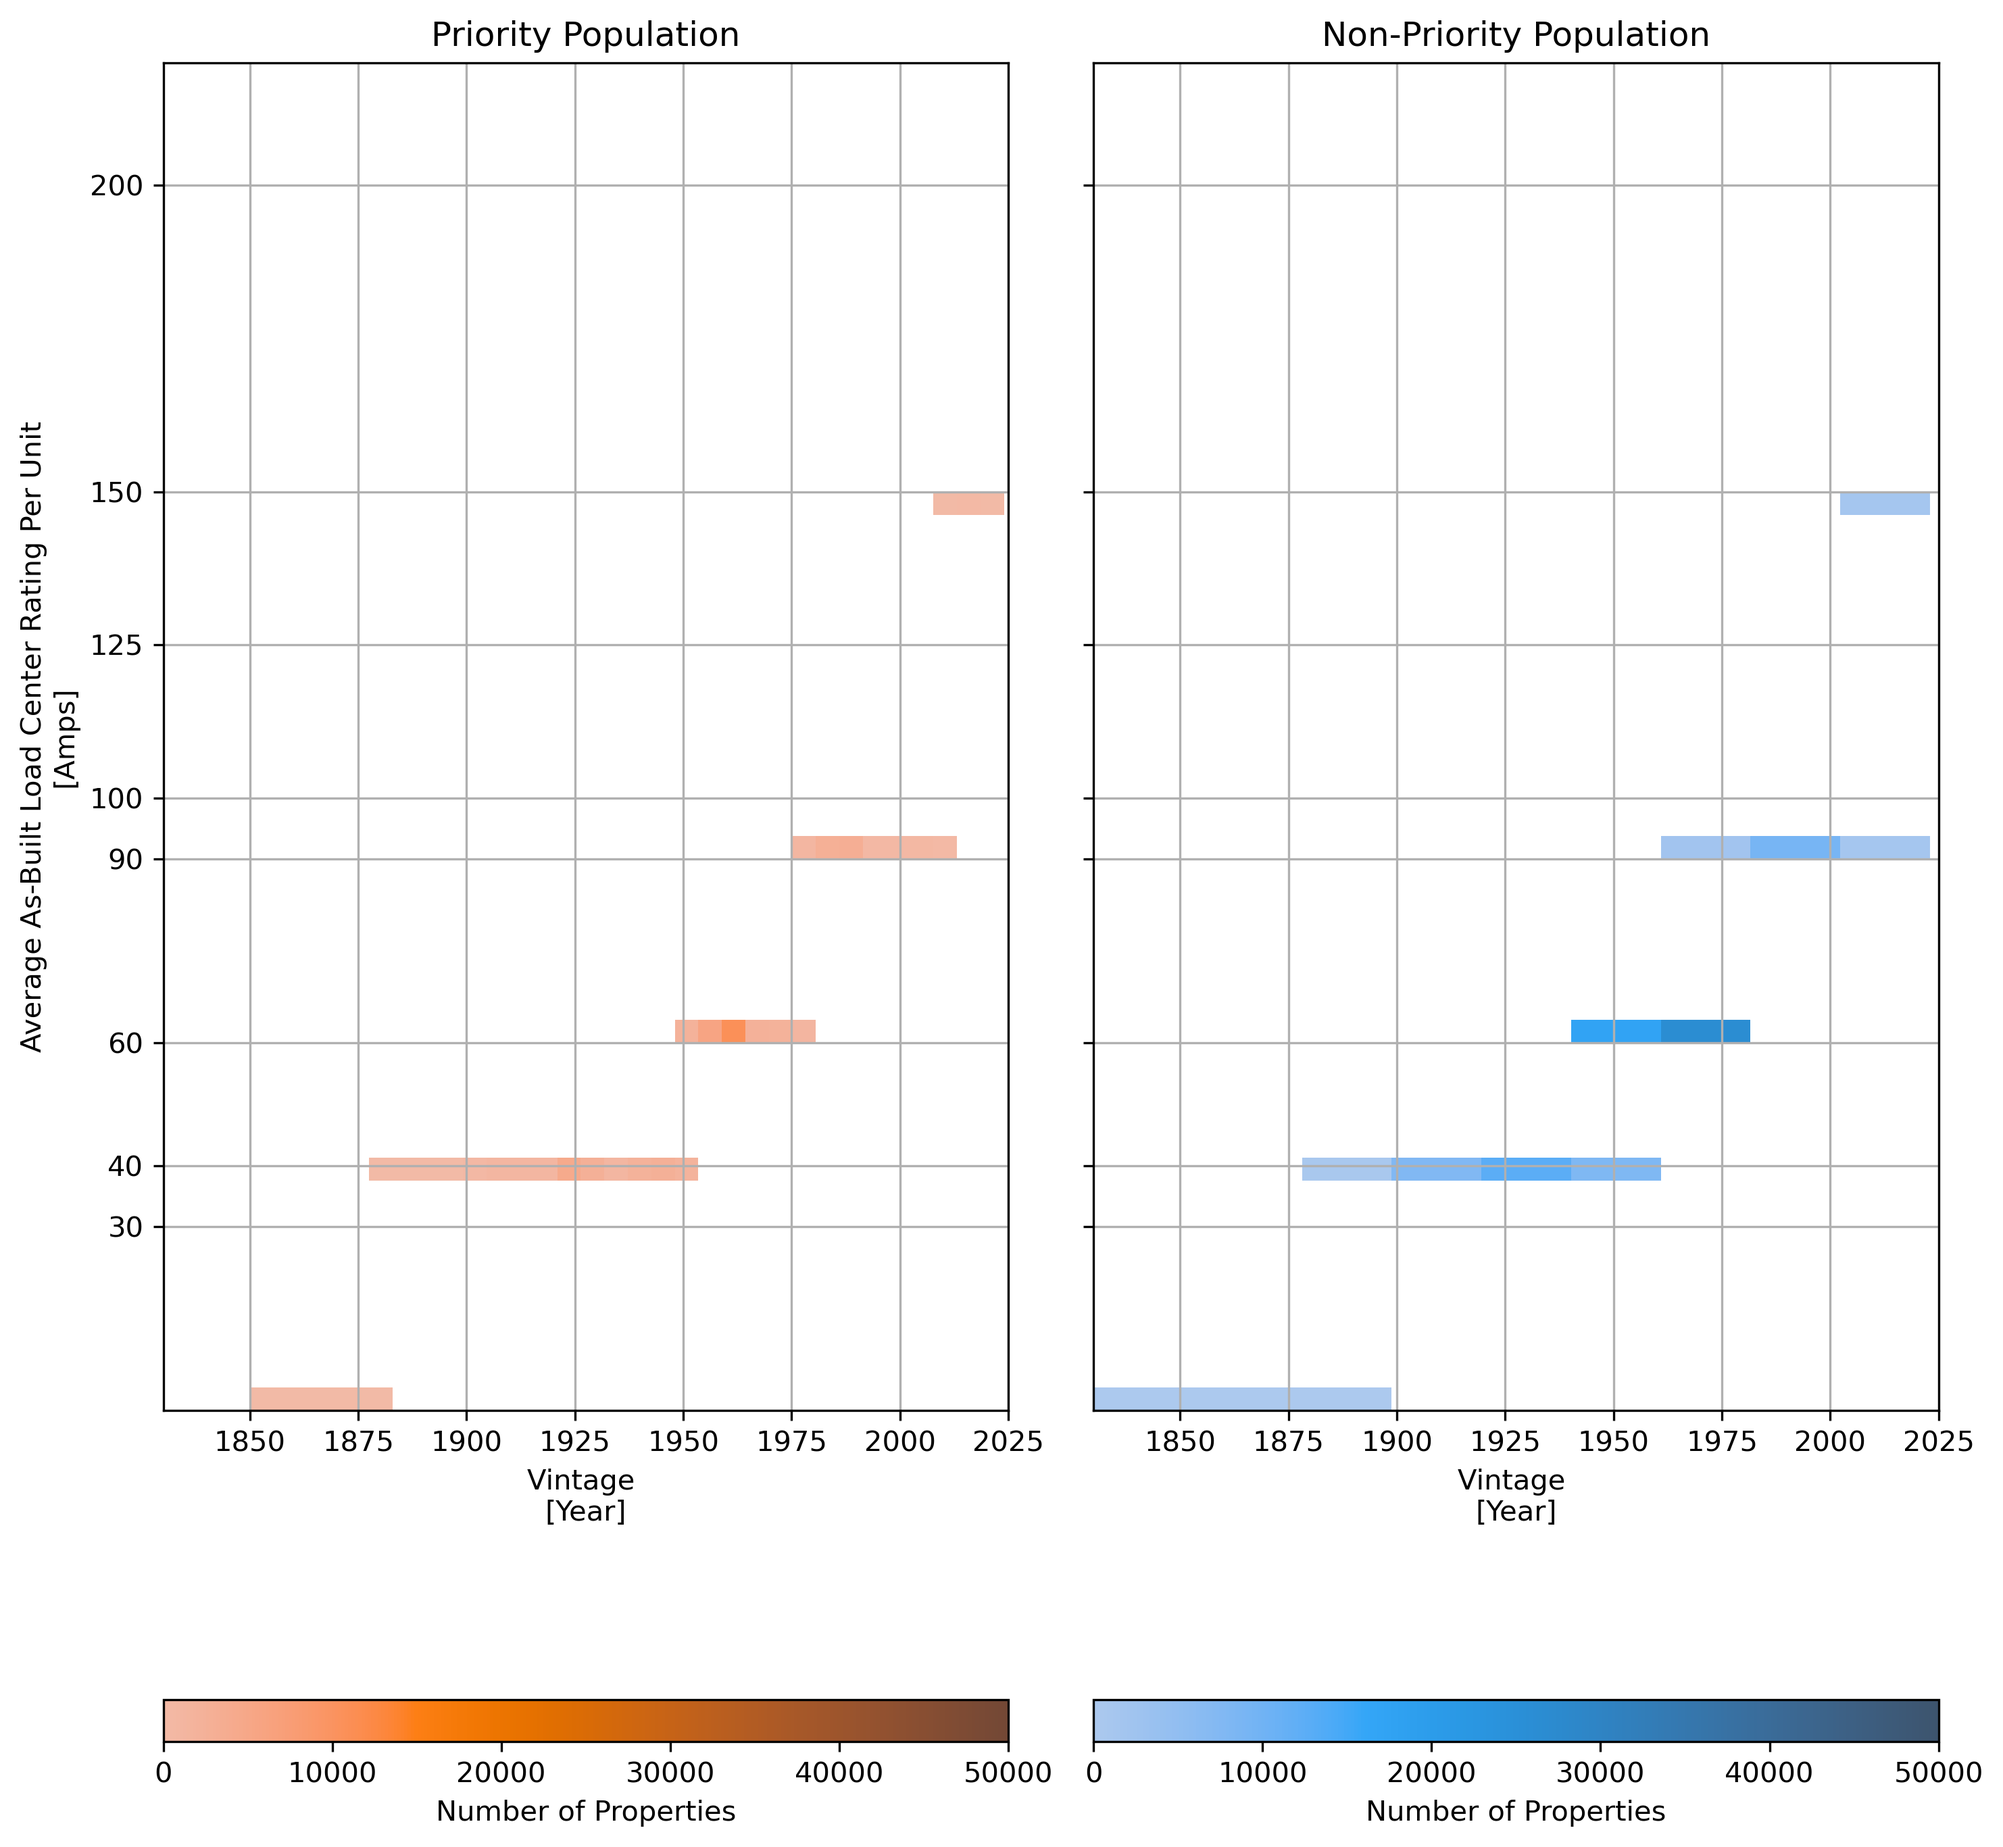
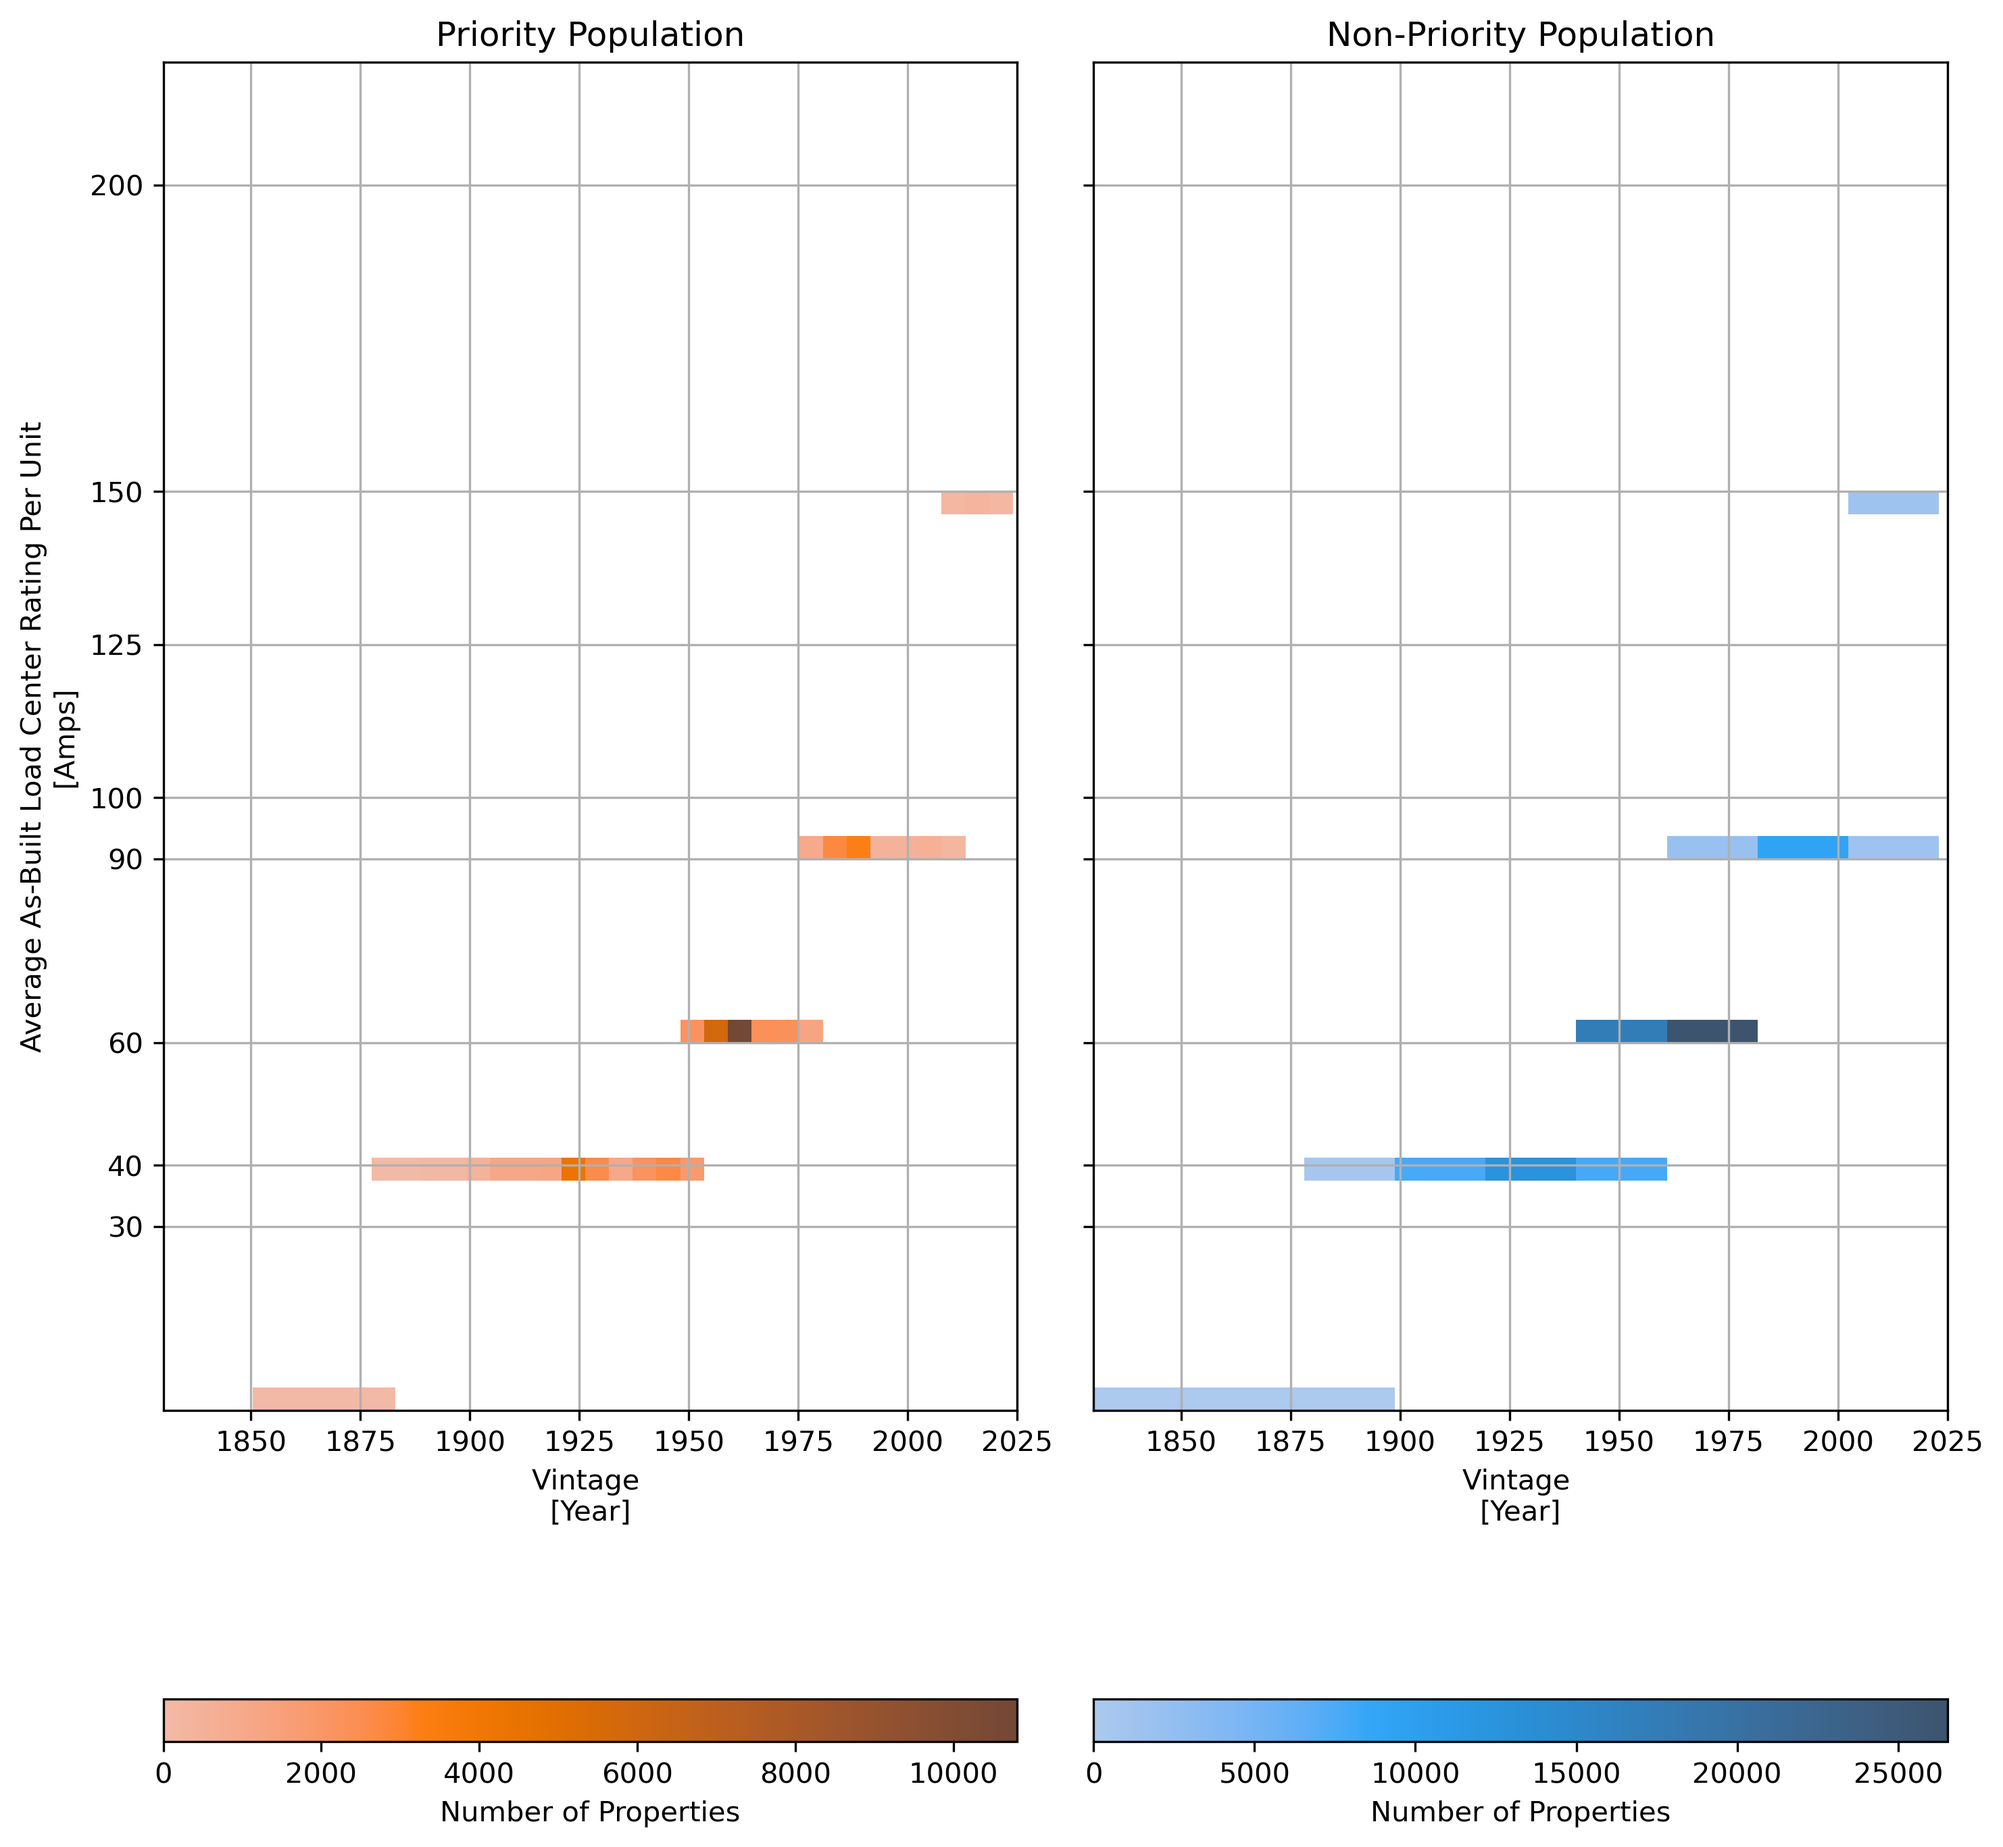
Fix issue related to invalid vintage years in corelogic data

diff --git a/analyses/model_data/corelogic/model_data_analysis.py b/analyses/model_data/corelogic/model_data_analysis.py
@@ -8,6 +8,7 @@ import matplotlib
 import matplotlib.animation as animation
 import matplotlib.pyplot as plt
 from matplotlib.ticker import FormatStrFormatter, StrMethodFormatter
+from matplotlib.colors import LogNorm, Normalize
 import seaborn as sns
 
 #%% Set Fixed Parameters
@@ -44,7 +45,8 @@ query = ''' SELECT  A.*,
             JOIN corelogic.model_data_sf_inference AS B
                 ON A.megaparcelid = B.megaparcelid
             JOIN corelogic.megaparcels_geocoded_geographies AS C
-                ON A.megaparcelid = C.megaparcelid;'''
+                ON A.megaparcelid = C.megaparcelid
+            WHERE A.YearBuilt <= 2024;'''
 
 sf = pd.read_sql(query, db_con)
 
@@ -73,6 +75,11 @@ mf = pd.read_sql(query, db_con)
 
 # Set megaparcelid as index
 mf.set_index('megaparcelid', drop = True, inplace = True)
+
+#%% Drop Parcels with Bogus Vintage Years
+
+sf = sf.loc[sf['YearBuilt'] <= 2024,:]
+mf = mf.loc[mf['YearBuilt'] <= 2024,:]
 
 #%% Extract Air District Geographic Boundaries
 
@@ -367,6 +374,8 @@ def AsBuiltPanelRatingsHist(mp, sector, figure_dir):
         bins = 40
         ylabel = 'Average As-Built Load Center Rating Per Unit\n[Amps]'
 
+    log_norm = LogNorm(vmin=0, vmax=1000000)
+
     sns.histplot(x = 'YearBuilt',
         y = 'panel_size_as_built',
         data = dac_sample,
@@ -376,8 +385,9 @@ def AsBuiltPanelRatingsHist(mp, sector, figure_dir):
         legend = True,
         label = 'Priority Population',
         cbar = True,
-        cbar_kws = {'label':'Number of Properties', 'orientation':'horizontal'},
-        vmin=0, vmax=50000)
+        cbar_kws = {'label':'Number of Properties', 'orientation':'horizontal'}
+        )
+
     sns.histplot(x = 'YearBuilt',
         y = 'panel_size_as_built',
         data = non_dac_sample,
@@ -387,8 +397,8 @@ def AsBuiltPanelRatingsHist(mp, sector, figure_dir):
         legend = True,
         label = 'Non-Priority Population',
         cbar = True,
-        cbar_kws = {'label':'Number of Properties', 'orientation':'horizontal'},
-        vmin=0, vmax=50000)
+        cbar_kws = {'label':'Number of Properties', 'orientation':'horizontal'}
+        )
 
     ax[0].set_yticks(yticks)
 
@@ -539,8 +549,9 @@ def ExistingPanelRatingsHist(mp, sector, figure_dir):
         legend = True,
         label = 'Yes',
         cbar = True,
-        cbar_kws = {'label': 'Number of Properties', 'orientation':'horizontal'},
-        vmin=0, vmax=50000)
+        cbar_kws = {'label': 'Number of Properties', 'orientation':'horizontal'}
+        )
+
     sns.histplot(x = 'YearBuilt',
         y = 'panel_size_existing',
         data = non_dac_sample,
@@ -550,8 +561,8 @@ def ExistingPanelRatingsHist(mp, sector, figure_dir):
         legend = True,
         label = 'No',
         cbar = True,
-        cbar_kws = {'label':'Number of Properties', 'orientation':'horizontal'},
-        vmin=0, vmax=50000)
+        cbar_kws = {'label':'Number of Properties', 'orientation':'horizontal'}
+        )
 
     ax[0].set_yticks(yticks)
 

diff --git a/simulation/corelogic/mf_feature_inference.py b/simulation/corelogic/mf_feature_inference.py
@@ -52,6 +52,10 @@ mp = pd.read_sql(query, db_con)
 # Set megaparcelid as index
 mp.set_index('megaparcelid', drop = True, inplace = True)
 
+# Null out bogus vintage years
+invalid_ind = mp['YearBuilt'] > 2024
+mp.loc[invalid_ind,'YearBuilt'] = np.nan
+
 # Filter Properties with Panel Upgrade Permits
 permit_cols = [
     'solar_pv_system',

diff --git a/simulation/corelogic/sf_feature_inference.py b/simulation/corelogic/sf_feature_inference.py
@@ -52,6 +52,10 @@ mp = pd.read_sql(query, db_con)
 # Set megaparcelid as index
 mp.set_index('megaparcelid', drop = True, inplace = True)
 
+# Null out bogus vintage years
+invalid_ind = mp['YearBuilt'] > 2024
+mp.loc[invalid_ind,'YearBuilt'] = np.nan
+
 # Filter Properties with Panel Upgrade Permits
 permit_cols = [
     'solar_pv_system',
